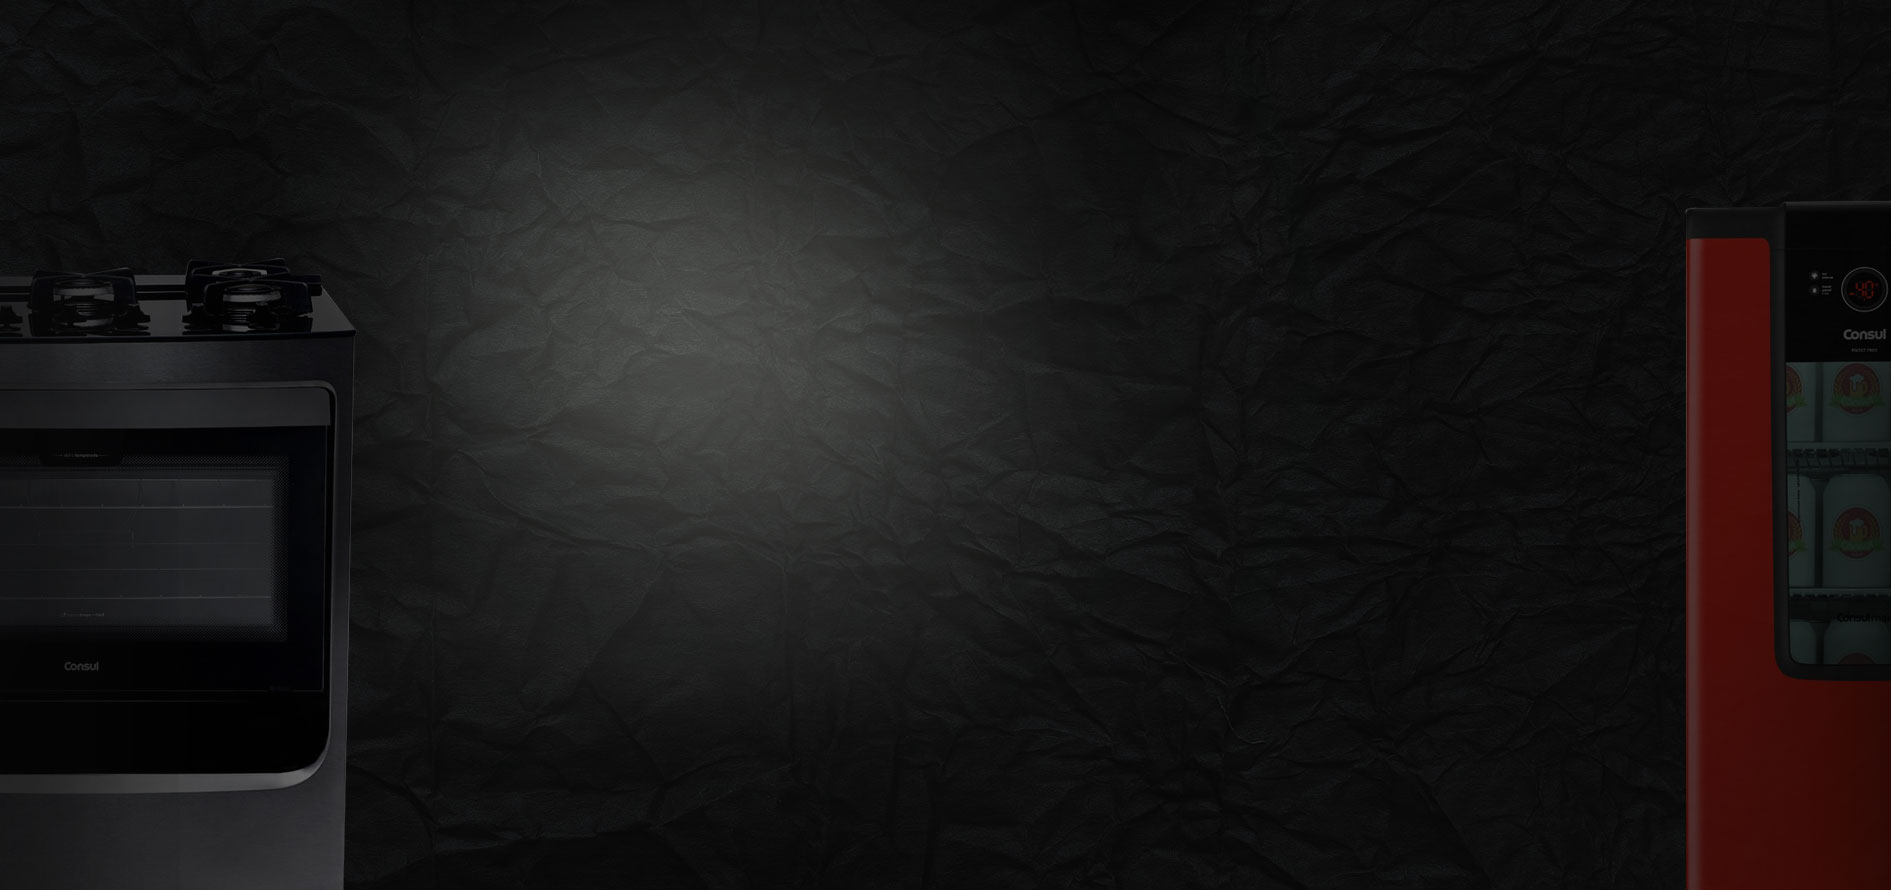
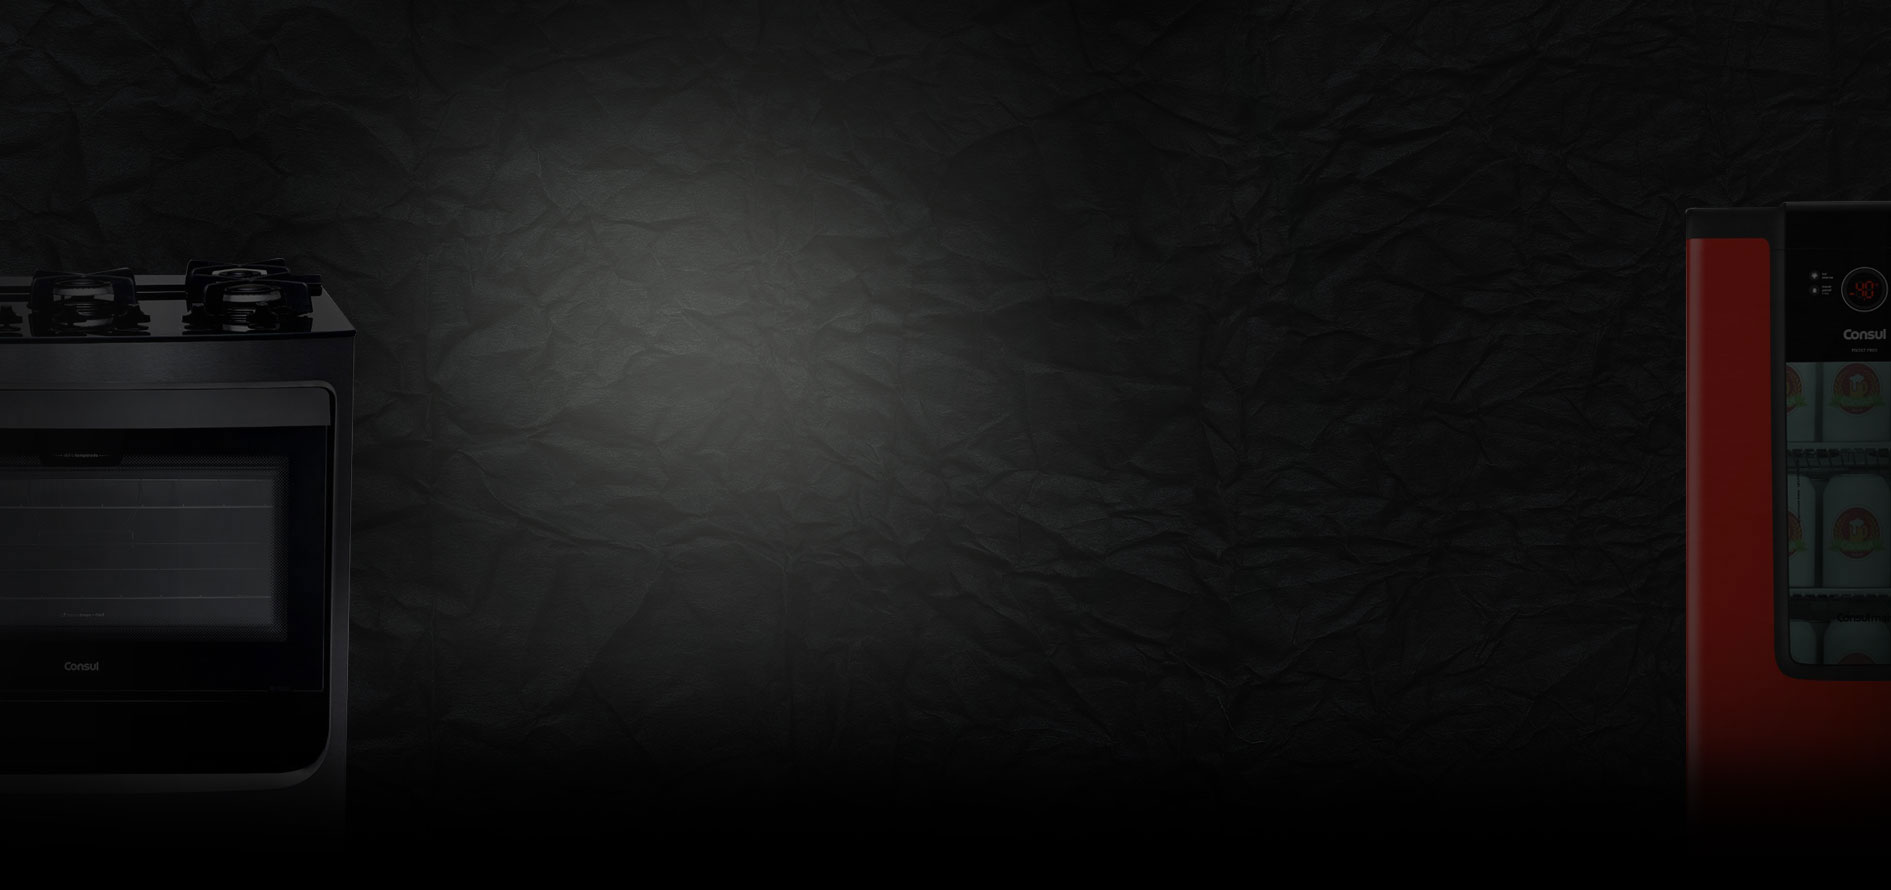
PLAT-7147 Implementação BF CNS 2018

Changed region(s): [[0.0, 0.8494, 0.1872, 1.0], [0.8736, 0.8191, 1.0, 1.0]]

diff --git a/src/pages/landing-blackfriday-2018/styles/consul-landing-blackfriday-2018.scss b/src/pages/landing-blackfriday-2018/styles/consul-landing-blackfriday-2018.scss
@@ -28,6 +28,7 @@ $loja-color: #9aca3d;
 
 // Base
 .landing-blackfriday-2018 {
+	background: #000 url('/arquivos/bg-section-001.jpg') center 50px no-repeat;
 	@include breakpoint('medium', 'max') { padding-top: 70px!important; }
 	@include breakpoint('small', 'max') { padding-top: 50px!important; }
 	transition:
@@ -49,7 +50,7 @@ $loja-color: #9aca3d;
 		right: 0;
 		top: 0;
 		width: 100%;
-		z-index: 10;
+		z-index: 99999!important;
 	}
 	background-color: $loja-color;
 	line-height: 95px;
@@ -60,7 +61,6 @@ $loja-color: #9aca3d;
 		line-height .3s ease,
 		min-height .3s ease
 	;
-
 	a {
 		display: block;
 
@@ -74,54 +74,64 @@ $loja-color: #9aca3d;
 	}
 }
 
-#lpbf {
-	background: #000 url('/arquivos/bg-section-001.jpg') center center no-repeat;
+#lpbf {	
 	display: block;
 	height: 696px;
 
 	.lpbf__title {
-		@include breakpoint('small', 'max') {
-			background-position: center -50px;
-			height: 195px;
-			margin: 0 auto 0 auto;
-			width: 240px;
+		@include breakpoint('small', 'min') {
+			@include breakpoint('large', 'max') {
+				height: 320px;
+				margin-bottom: 30px;
+			}
 		}
-		background: transparent url('/arquivos/logo-blackfriday-consul.png') center -20px no-repeat;
+		@include breakpoint('small', 'max') {
+			height: 235px;
+			margin: 0 auto 20px auto;
+			width: 290px;
+		}
+		background: transparent url('/arquivos/logo-blackfriday-consul.png') center -10px no-repeat;
 		text-align: center;
 		background-size: contain;
 		color: transparent;
 		font-size: 1px;
-		height: 373px;
-		margin: 0 0 80px 0;
+		height: 400px;
+		margin: 0;
 		overflow: hidden;
 		text-indent: -99cm;
 		transition: .3s ease;
 		width: auto;
 	}
 
-	.lpbf__subtitle {
-		@include breakpoint('medium', 'min') { @include rfs(30); }
-		@include breakpoint('medium', 'max') { display: none; }
-		@include breakpoint('small', 'max') {
-			@include rfs(24);
-			display: block;
-			margin-top: 0;
-			max-width: 100%;
-			padding: 10px 40px;
-			text-align: center;
-			width: 100%;
-		}
-		@include breakpoint('small', 'max') { padding: 10px 0; }
+	.lpbf__subtitle1 {
+		@include rfs(28);
 		color: #fff;
-		margin-top: 50px;
+		font-weight: 400;
+		line-height: 30px;
+		margin: -20px 0 10px;
+		text-align: center;
+		@include breakpoint('extra-small', 'max') {
+			@include rfs(20);
+
+		}
+	}
+	.lpbf__subtitle2 {
+		@include rfs(28);
+		color: $loja-color;
+		font-weight: 600;
+		margin-top: 0;
+		text-align: center;
+		@include breakpoint('small', 'max') {
+			margin-bottom: 0;
+		}
 	}
 
 	// Contador
 	.lpbf-contador {
 		@include breakpoint('small', 'max') {
-			transform: translateY(915%);
+			transform: translateY(40%);
 			@include breakpoint('extra-small', 'max') {
-				transform: translateY(730%);
+				transform: translateY(40%);
 			}
 		}
 		@include breakpoint('small', 'min') { transform: translateY(30%); }
@@ -432,6 +442,25 @@ $loja-color: #9aca3d;
 			margin-top: 25px;
 			width: 100%;
 		}
+		.chose-more-products {
+			@include rfs(14);
+			background: transparent;
+			border: 2px solid $loja-color;
+			border-radius: 25px;
+			color: $loja-color;
+			font-weight: bold;
+			margin-top: 26px;
+			padding: 8px 0;
+			transition: 
+				color .4s ease,
+				font-size .4s ease
+			;
+			width: 100%;
+			&:hover {
+				background: $loja-color;
+				color: #fff;
+			}
+		}
 		.txt-categories {
 			@include rfs(14);
 			color: #fff;
@@ -494,14 +523,19 @@ $loja-color: #9aca3d;
 			position: absolute;
 			top: -25px;
 
-			&:checked + span:before {
+			&:checked + span:before{
 				height: 100%;
 				width: 100%;
+			}
+			&:checked + span:after {
+				display: inline-block;
 			}
 		}
 
 		span {
+			border-radius: 5px;
 			border: 2px solid #454545;
+			cursor: pointer;
 			display: inline-block;
 			height: 18px;
 			left: 0;
@@ -511,7 +545,8 @@ $loja-color: #9aca3d;
 			width: 18px;
 
 			&:before {
-				background-color: #f65100;
+				background-color: $loja-color;
+				border-radius: 3px;
 				content: '';
 				display: block;
 				height: 0;
@@ -524,6 +559,15 @@ $loja-color: #9aca3d;
 					width .2s ease
 				;
 				width: 0;
+			}
+			&:after {
+				@include icon-get ('check-mark');
+				@include rfs(9);
+				display: none;
+				position: absolute;
+				color: #FFF;
+				top: 2px;
+				left: 1px;
 			}
 		}
 	}
@@ -698,11 +742,14 @@ $loja-color: #9aca3d;
 
 // depoimentos
 .depoimentos {
-	background-color: #000;
-	@include breakpoint('small', 'max') {
-		// @include breakpoint('extra-small', 'max') { padding-top: 285px; }
-		padding-top: 190px;
+	margin-bottom: 20px;
+	@include breakpoint('medium', 'max') {
+		padding: 200px 30px 0 30px;
 	}
+	@include breakpoint('small', 'max') {
+		padding: 450px 30px 0 30px;
+	}
+	@include breakpoint('extra-small', 'max') { padding: 405px 0 0; }
 
 	.container {
 		font-size: 0;
@@ -728,8 +775,15 @@ $loja-color: #9aca3d;
 }
 
 .txt-depoimentos {
-	background: #000 url('/arquivos/apostrofo.png') center center no-repeat;
-	margin-top: 200px;
+	@include breakpoint('medium', 'min') {
+		margin-top: 200px;
+	}
+	@include breakpoint('extra-small', 'max') {
+		margin-top: 50px;
+	}
+	
+	background: transparent url('/arquivos/apostrofo.png') center center no-repeat;
+	background-size: contain;
 	height: 93px;
 	text-align: center;
 	h2 {

diff --git a/src/pages/landing-blackfriday-2018/consul-landing-blackfriday-2018.html b/src/pages/landing-blackfriday-2018/consul-landing-blackfriday-2018.html
@@ -29,6 +29,8 @@
 			<div class="row">
 				<div class="col-6">
 					<h1 class="lpbf__title">Black Friday Consul</h1>
+					<h2 class="lpbf__subtitle1">Receber as ofertas e descontos da <br/>Black Friday antes de todo mundo</h2>
+					<h3 class="lpbf__subtitle2">Isso sim é bem pensado.</h3>
 				</div>
 				<div class="col-6">
 					<!-- Formulário -->
@@ -44,6 +46,7 @@
 
 							<div class="lpbf-categories-chosen js-categories">
 								<ul></ul>
+								<button class="chose-more-products">Escolha mais produtos</button>
 							</div>
 
 							<div class="lpbf-categorys">
@@ -151,7 +154,7 @@
 
 								<fieldset>
 									<label for="li-concordo" tabindex="7">
-										<input type="checkbox" name="li-concordo" id="li-concordo"  tabindex="7" />
+										<input type="checkbox" name="li-concordo" id="li-concordo"  tabindex="7" checked="checked" />
 										<span></span>
 										Aceito receber por email ofertas exclusivas da Brastemp 
 									</label>
@@ -241,46 +244,32 @@
 					<div class="bg-depoimentos col-12">
 						<div class="depoimento-1">
 							<div class="box">
-								<h2>Vanessa</h2>
-								<h3>Duque de Caxias - RJ</h3>
-								<p>Comprei de forma rápida, prática, fiquei muito satisfeita com a atenção e informação do pedido e entrega. No dia anterior e no dia dá entrega fui informada que meu produto já estava a caminho através de mensagem de texto e email.</p>
+								<h2>Diana Campos</h2>
+								<h3>Paço do Lumiar</h3>
+								<p>Comprei meu produto na Black Friday, acompanhei os valores e realmente tinham descontos promocionais. Imaginei que pelo período do ano minha entrega fosse demorar, e para minha surpresa chegou muito antes do prazo estipulado. Estou imensamente satisfeita com o produto e pretendo compra mais.</p>
 							</div>
 						</div>
 						<div class="depoimento-2">
 							<div class="box">
-								<h2>Luiz</h2>
-								<h3>São Paulo - SP</h3>
-								<p>Inteiramente satisfeito com a compra realizada, tanto quanto a facilidade na compra, o prazo para pagamento, a entrega antes do prazo e produto adquirido. Com certeza indicaria para amigos e parentes a compra nesse site.</p>
+								<h2>Gilmar</h2>
+								<h3>Indaiabira</h3>
+								<p>Já tinha ouvido falar muito bem da marca, tenho equipamentos de outras marcas mas optei em comprar um produto da Consul pela primeira vez, e não me arrependo gostei muito do produto silêncioso fácil manuseio e econômico muito espaçoso, espero não ter nenhum problema com o produto, pretendo adquirir agora uma geladeira.</p>
 							</div>
 						</div>
 						<div class="depoimento-3">
 							<div class="box">
-								<h2>Thiago</h2>
-								<h3>Osasco - SP</h3>
-								<p>O site passa de forma bem clara todas as informações necessárias, o processo de compra é simples, a entrega foi pontual e estava sendo informado o tempo todo sobre a entrega via SMS. Gostei muito de comprar com vocês.</p>
+								<h2>Solange</h2>
+								<h3>Rio de Janeiro</h3>
+								<p>Tudo perfeito, entregaram em 1 semana. O atendimento do televendas foi excelente. Os entregadores subiram pelas escadas com o refrigerador, preocupados em não retirar a embalagem, todos muito educado. Amei a minha compra. Obrigada Consul.</p>
 							</div>	
 						</div>
-						<div class="depoimento-4">
+						<!-- <div class="depoimento-4">
 							<div class="box">	
 								<h2>Thiago</h2>
 								<h3>Osasco - SP</h3>
 								<p>O site passa de forma bem clara todas as informações necessárias, o processo de compra é simples, a entrega foi pontual e estava sendo informado o tempo todo sobre a entrega via SMS. Gostei muito de comprar com vocês.</p>
 							</div>		
-						</div>
-						<div class="depoimento-5">
-							<div class="box">	
-								<h2>Thiago</h2>
-								<h3>Osasco - SP</h3>
-								<p>O site passa de forma bem clara todas as informações necessárias, o processo de compra é simples, a entrega foi pontual e estava sendo informado o tempo todo sobre a entrega via SMS. Gostei muito de comprar com vocês.</p>
-							</div>
-						</div>
-						<div class="depoimento-6">
-							<div class="box">
-								<h2>Thiago</h2>
-								<h3>Osasco - SP</h3>
-								<p>O site passa de forma bem clara todas as informações necessárias, o processo de compra é simples, a entrega foi pontual e estava sendo informado o tempo todo sobre a entrega via SMS. Gostei muito de comprar com vocês.</p>
-							</div>
-						</div>
+						</div> -->
 					</div>
 				</div>
 			</div>

diff --git a/src/pages/landing-blackfriday-2018/scripts/consul-landing-blackfriday-2018.js b/src/pages/landing-blackfriday-2018/scripts/consul-landing-blackfriday-2018.js
@@ -95,7 +95,7 @@ Nitro.setup(['facebook-init'], function () {
 				var category = $('.lpbf-categorys__item input[type=checkbox]:checked').map(function() { return this.value; } ).get().join(', ');
 				var email = $('#email-bf-2018').val();
 				var nome = $('#nome-bf-2018').val();
-				var concordo = $('#li-concordo');
+				var concordo = $('#li-concordo').is(':checked') ? true : false;
 
 				$('.success_p').remove();
 				$('.error_p').remove();
@@ -104,7 +104,7 @@ Nitro.setup(['facebook-init'], function () {
 				formBlackFriday2018.append('<p class="message error_p">Preencha os campos corretamente</p>');
 
 				// Verifica se todos os campos foram preenchidos
-				if( Index.emailValidation( email ) && nome !== '' && concordo.is(':checked') ) {
+				if( Index.emailValidation( email ) && nome !== '' ) {
 
 					$(inputs).removeClass('erro');
 					$('.error_p').remove();
@@ -115,7 +115,7 @@ Nitro.setup(['facebook-init'], function () {
 						'receberOfertasBlackFriday' : category,
 						'firstName' : nome,
 						'email': email,
-						'isNewsletterOptIn' : true,
+						'isNewsletterOptIn' : concordo,
 						'cadastroBlackFriday': true
 					};
 
@@ -220,9 +220,19 @@ Nitro.setup(['facebook-init'], function () {
 		showProducts: function () {
 
 			var $elementForm = $('#form-bf-2018');
+
+			$('.chose-more-products').on('click', function (e) {
+				e.preventDefault();
+				$elementForm.find('.js-categories').hide();
+				$elementForm.addClass('active');
+				$elementForm.find('#click-more-products, .form-blackfriday-2018').hide();
+				$elementForm.find('.lpbf-categorys').css('display', 'flex');
+				$elementForm.find('.js-categories li').remove();
+			});
 			
 			// Exibe mais produtos para escolher
-			$('#click-more-products a').on('click', function () {				
+			$('#click-more-products a').on('click', function (e) {
+				e.preventDefault();
 				$elementForm.addClass('active');
 				$elementForm.find('#click-more-products, .form-blackfriday-2018').hide();
 			});
@@ -240,18 +250,19 @@ Nitro.setup(['facebook-init'], function () {
 				var category = $('.lpbf-categorys__item input[type=checkbox]:checked').map(function() { 
 					return this.value; 
 				});
-				
-				$elementForm.addClass('active-chosen');
-				$elementForm.removeClass('active');
-				$elementForm.find('.form-blackfriday-2018').fadeIn();
-				
 				// Renderiza opções de categorias escolhidas
-				$.each(category, function (i) {					
+				$.each(category, function (i) {			
 					var $renderOptions = ' <li class="txt-categories">' + category[i] + '</li>';
 					$('.js-categories ul').append($renderOptions);
-				});					
+				});									
+			
+				$('.js-categories').show();
+				$('.lpbf-categorys').hide();
+				$elementForm.addClass('active-chosen');
+				$elementForm.removeClass('active');
+				$elementForm.find('.form-blackfriday-2018').fadeIn();				
 				
-			});
+			});		
 		}
 
 		
